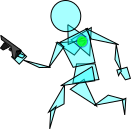
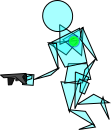
Improved animations

Changed region(s): [[0.0, 0.0, 1.0, 1.0], [0.3784, 0.062, 0.4054, 0.186], [0.4054, 0.031, 0.4324, 0.062]]

diff --git a/core/src/logic/creature/player/Player.java b/core/src/logic/creature/player/Player.java
@@ -51,17 +51,21 @@ public class Player extends Creature {
         this.xpToCurrentLevel = 0;
         this.xpToNextLevel = 200;
         
-        this.playerAnimation = new Animation[2][5];
+        this.playerAnimation = new Animation[2][7];
         this.playerAnimation[0][0] = new Animation<Texture>(0.2f, new Texture("Player/Pistol/player_w-pistol_stand_still_left.png"));
         this.playerAnimation[0][1] = new Animation<>(0.2f, new Texture("Player/Pistol/player_w-pistol_run1_left.png"));
         this.playerAnimation[0][2] = new Animation<>(0.2f, new Texture("Player/Pistol/player_w-pistol_run2_left.png"));
-        this.playerAnimation[0][3] = new Animation<>(0.3f, new Texture("Player/Pistol/player_w-pistol_fire_left.png"));
-        this.playerAnimation[0][4] = new Animation<>(0.3f, new Texture("Player/Pistol/player_w-pistol_after_fire_left.png"));
+        this.playerAnimation[0][3] = new Animation<>(0.2f, new Texture("Player/Pistol/player_w-pistol_run3_left.png"));
+        this.playerAnimation[0][4] = new Animation<>(0.2f, new Texture("Player/Pistol/player_w-pistol_run4_left.png"));
+        this.playerAnimation[0][5] = new Animation<>(0.3f, new Texture("Player/Pistol/player_w-pistol_fire_left.png"));
+        this.playerAnimation[0][6] = new Animation<>(0.3f, new Texture("Player/Pistol/player_w-pistol_after_fire_left.png"));
         this.playerAnimation[1][0] = new Animation<Texture>(0.2f, new Texture("Player/Pistol/player_w-pistol_stand_still_right.png"));
         this.playerAnimation[1][1] = new Animation<>(0.2f, new Texture("Player/Pistol/player_w-pistol_run1_right.png"));
         this.playerAnimation[1][2] = new Animation<>(0.2f, new Texture("Player/Pistol/player_w-pistol_run2_right.png"));
-        this.playerAnimation[1][3] = new Animation<>(0.3f, new Texture("Player/Pistol/player_w-pistol_fire_right.png"));
-        this.playerAnimation[1][4] = new Animation<>(0.3f, new Texture("Player/Pistol/player_w-pistol_after_fire_right.png"));
+        this.playerAnimation[1][3] = new Animation<>(0.2f, new Texture("Player/Pistol/player_w-pistol_run3_right.png"));
+        this.playerAnimation[1][4] = new Animation<>(0.2f, new Texture("Player/Pistol/player_w-pistol_run4_right.png"));
+        this.playerAnimation[1][5] = new Animation<>(0.3f, new Texture("Player/Pistol/player_w-pistol_fire_right.png"));
+        this.playerAnimation[1][6] = new Animation<>(0.3f, new Texture("Player/Pistol/player_w-pistol_after_fire_right.png"));
         this.timeRunning = 0;
         this.animationState = 0;
         this.stateTime = 0;
@@ -210,7 +214,7 @@ public class Player extends Creature {
 	
 	public void calculateAnimationState()
 	{
-		this.setAnimationState((int)(this.timeRunning*(10/2))%2 + 1);
+		this.setAnimationState((int)(this.timeRunning*(10))%4 + 1);
 	}
 
 	public float getShootingAnimationDelay() {

diff --git a/core/src/com/darknessplayground/game/screen/MainGame.java b/core/src/com/darknessplayground/game/screen/MainGame.java
@@ -86,9 +86,9 @@ public class MainGame implements Screen {
 		
 		this.handlePassiveXp(dt);
 		this.player.setShootingAnimationDelay(Math.max(0, this.player.getShootingAnimationDelay() - dt));
-		if(this.player.getShootingAnimationDelay() <= 0 && this.player.getAnimationState() == 3)
+		if(this.player.getShootingAnimationDelay() <= 0 && this.player.getAnimationState() == 5)
 		{
-			this.player.setAnimationState(4);
+			this.player.setAnimationState(6);
 			this.player.setShootingAnimationDelay(0.15f);
 		}
 		
@@ -234,8 +234,8 @@ public class MainGame implements Screen {
 			//this.player.attack();
 			System.out.println("key pressed");
 			if(this.player.gun.getAmmo() > 0) {
-				this.player.setAnimationState(3);
-				this.player.setShootingAnimationDelay(0.25f);
+				this.player.setAnimationState(5);
+				this.player.setShootingAnimationDelay(0.05f);
 			}
 			this.player.inCombat();
 			this.player.attack();
